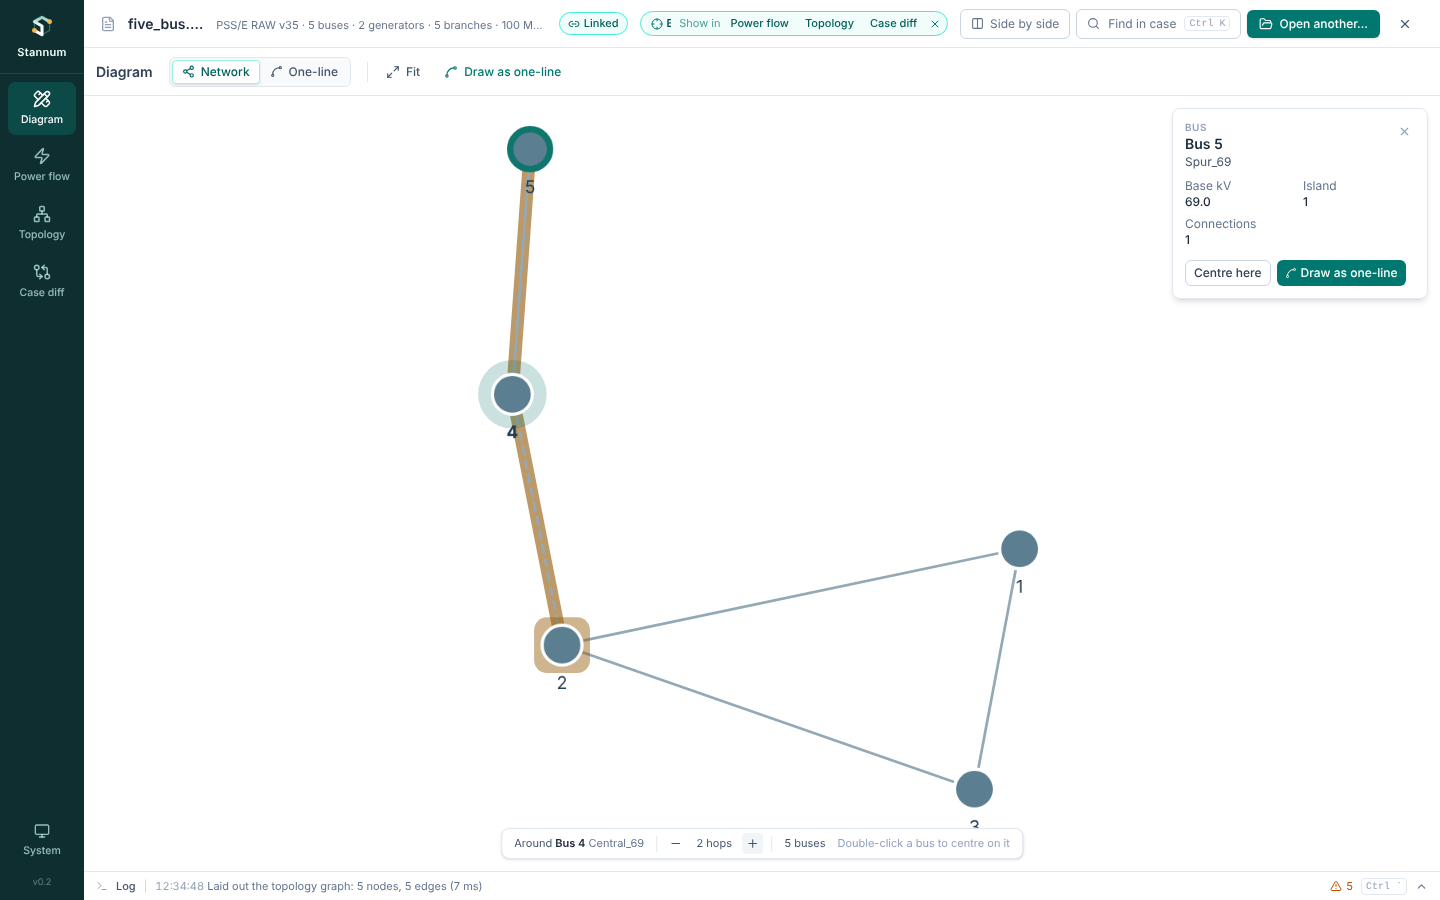
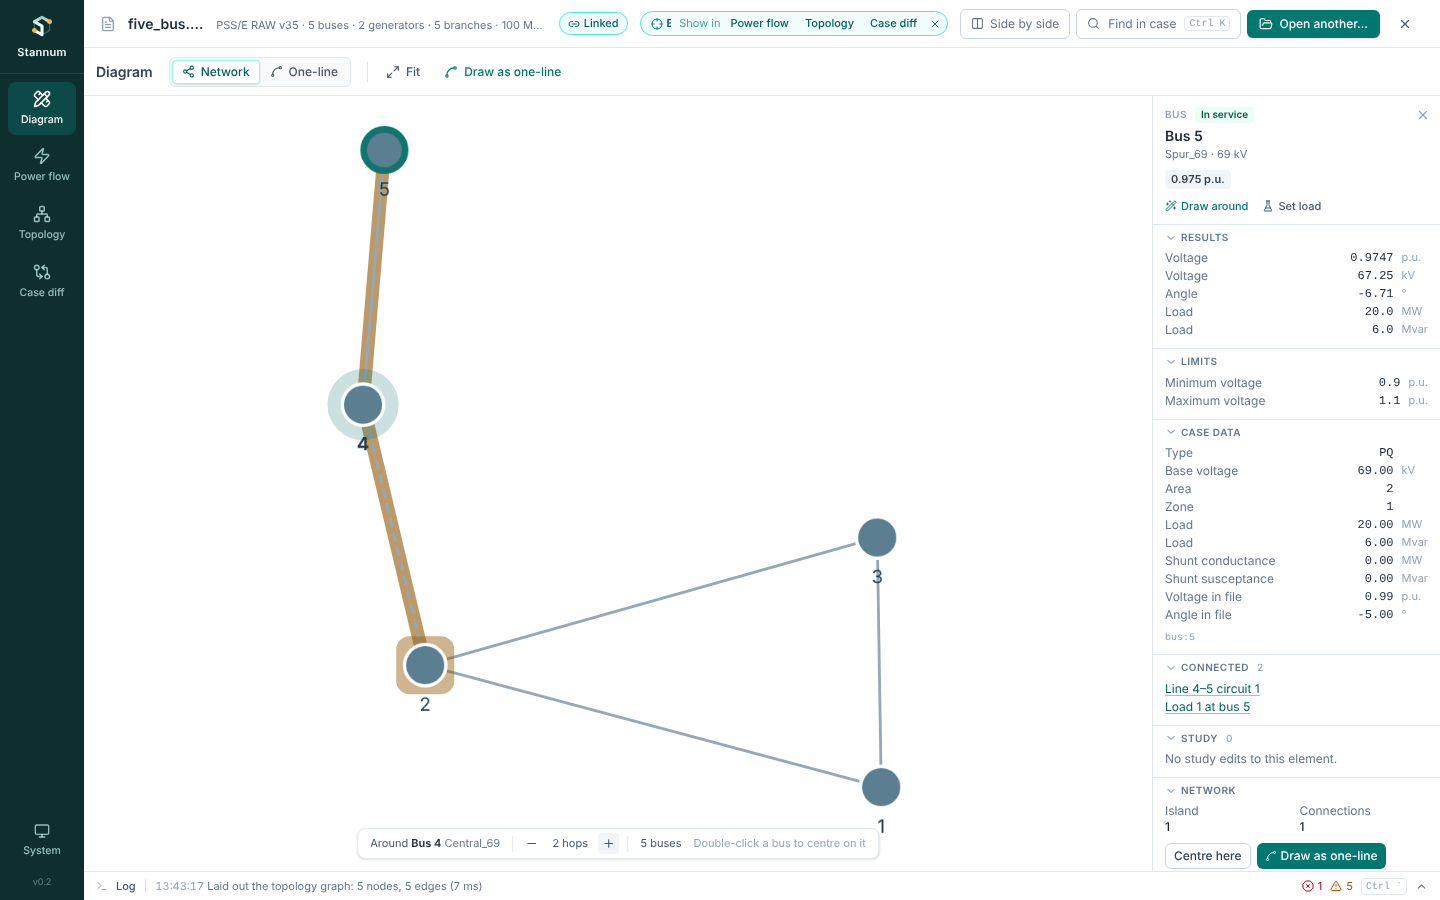
Use the shared element inspector in the Diagram's Network style
The Network style's stand-in selection card is replaced by the shared
element inspector (M6 6.1), in the same column as the one-line's. Its
Network section keeps the island, connections, bridge and cut-bus notes,
Centre here and Draw as one-line. Picking a terminal or connected element
in the inspector selects it in the network.

Claude-Session: https://claude.ai/code/session_01DEhTxTUzutLTPaBbA6n7wt

diff --git a/src/modules/diagram/network/NetworkView.tsx b/src/modules/diagram/network/NetworkView.tsx
@@ -1,16 +1,17 @@
 // The Diagram's Network style: the topology graph (Cytoscape) drawn around a
 // bus, sharing the focus bus, hop count and selection with the One-line style.
 import { useEffect, useMemo, useRef, useState } from "react";
-import { Maximize2, Minus, Plus, Spline, X } from "lucide-react";
+import { Maximize2, Minus, Plus, Spline } from "lucide-react";
 import { useWorkspace } from "../../../store/workspaceStore";
 import { useDiagramStore } from "../../../store/diagramStore";
 import { MAX_HOPS, useDrawingStyle } from "../../../store/drawingStyleStore";
 import { loadTopology, useTopology } from "../../../lib/analysis/topologyStore";
 import type { TopologySnapshot } from "../../../lib/analysis/types";
-import { busElement, elementLabel } from "../../../lib/elements";
-import { count, fixed } from "../../../lib/analysis/format";
+import { busElement } from "../../../lib/elements";
+import { count } from "../../../lib/analysis/format";
 import { centreBus } from "../../../ui/DrawAround";
 import { NetworkGraph } from "../../topology/NetworkGraph";
+import { ElementInspector, InspectorSection } from "../../../ui/ElementInspector";
 import { DISPLAY_LIMIT, locateElement, neighborhood, nodeForBus, type GraphSelection } from "../../topology/viewModel";
 import { showOneLine } from "./switchStyle";
 import { StyleSwitch } from "./StyleSwitch";
@@ -212,89 +213,69 @@ function HopBar({ snapshot, buses }: { snapshot: TopologySnapshot; buses: number
 }
 
 /**
- * What is selected in the network, floating over its top right corner: its
- * topology facts and the actions that move between styles. (The shared element inspector, M6 PR 6.1, replaces this.)
+ * The shared element inspector for what is selected in the network, with a
+ * Network section: its topology facts and the actions that move between
+ * styles. It takes the same column as the one-line's inspector.
  */
-export function NetworkSelection() {
+export function NetworkInspector() {
   const element = useDrawingStyle((s) => s.element);
   const setElement = useDrawingStyle((s) => s.setElement);
+  const caseVersion = useWorkspace((s) => s.caseVersion);
+  const snapshot = useTopology((s) => (s.version === caseVersion ? s.snapshot : null));
+  if (!element || !snapshot || !locateElement(element, snapshot)) return null;
+  const pick = (next: string) => {
+    setElement(next);
+    useWorkspace.getState().select(next, "diagram");
+  };
+  return (
+    <aside className="w-72 shrink-0 border-l border-slate-200 bg-white overflow-y-auto" data-testid="network-selection">
+      <ElementInspector element={element} from="diagram" onPick={pick} onClose={() => setElement(null)}>
+        <NetworkSection element={element} snapshot={snapshot} />
+      </ElementInspector>
+    </aside>
+  );
+}
+
+/** Islands, bridges and cut buses for the selection, and Centre here / Draw as one-line. */
+function NetworkSection({ element, snapshot }: { element: string; snapshot: TopologySnapshot }) {
   const focus = useDrawingStyle((s) => s.focus);
   const setFocus = useDrawingStyle((s) => s.setFocus);
   const busy = useDrawingStyle((s) => s.busy);
-  const caseVersion = useWorkspace((s) => s.caseVersion);
   const canDraw = useWorkspace((s) => !!s.caseSummary?.power.available);
-  const snapshot = useTopology((s) => (s.version === caseVersion ? s.snapshot : null));
-  if (!element || !snapshot) return null;
-  const found = locateElement(element, snapshot);
-  if (!found) return null;
-  const { case: c, analysis: a } = snapshot;
-  const pickBus = (bus: number) => {
-    setElement(busElement(bus));
-    useWorkspace.getState().select(busElement(bus), "diagram");
-  };
+  const found = locateElement(element, snapshot)!;
+  const { analysis: a } = snapshot;
   const bus = found.selection.bus ?? found.bus;
-  const row = "grid grid-cols-2 gap-1.5";
-  let body: React.ReactNode;
-  let eyebrow: string;
-  let title: string;
+  let facts: React.ReactNode;
   if (found.selection.equipment) {
-    const e = c.equipment.find((x) => x.id === found.selection.equipment)!;
-    const bridge = a.bridges.some((b) => b.equipment_id === e.id);
-    eyebrow = e.kind;
-    title = elementLabel(e.id);
-    body = (
-      <>
-        {e.name.trim() && <p className="text-slate-600">{e.name.trim()}</p>}
-        <p className="mt-2 text-slate-500">Terminals</p>
-        <div className="flex flex-wrap gap-1 mt-0.5">
-          {e.buses.map((b, i) => (
-            <button key={`${b}-${i}`} className="rounded border border-slate-300 px-1.5 py-px hover:bg-slate-50" onClick={() => pickBus(b)}>
-              Bus {b}
-              {e.active_terminals[i] === false && " (open)"}
-            </button>
-          ))}
-        </div>
-        {bridge && <p className="mt-2 rounded bg-amber-50 px-2 py-1 text-amber-900">Bridge: taking it out splits its island.</p>}
-      </>
+    const id = found.selection.equipment;
+    const bridge = a.bridges.some((b) => b.equipment_id === id);
+    facts = bridge ? (
+      <p className="rounded bg-amber-50 px-2 py-1 text-amber-900">Bridge: taking it out splits its island.</p>
+    ) : (
+      <p className="text-slate-500">Not a bridge: its island stays connected without it.</p>
     );
   } else {
-    const b = c.buses.find((x) => x.number === found.selection.bus);
-    const degree = a.degrees.find((d) => d.bus === found.selection.bus);
     const node = found.selection.bus !== null ? nodeForBus(snapshot.graph, found.selection.bus) : undefined;
-    eyebrow = "Bus";
-    title = node && node.member_buses.length > 1 ? `Merged node ${node.bus} · ${node.member_buses.length} buses` : `Bus ${found.selection.bus}`;
-    body = (
+    const degree = a.degrees.find((d) => d.bus === (node?.bus ?? found.selection.bus));
+    const cut = found.selection.bus !== null && a.articulation_buses.includes(node?.bus ?? found.selection.bus);
+    facts = (
       <>
-        {b?.name.trim() && <p className="text-slate-600">{b.name.trim()}</p>}
-        <dl className={`mt-2 ${row}`}>
-          <div><dt className="text-slate-500">Base kV</dt><dd className="font-medium">{b ? fixed(b.base_kv, 1) : "—"}</dd></div>
+        {node && node.member_buses.length > 1 && (
+          <p className="mb-1.5 text-slate-600">Merged node of {node.member_buses.length} buses: {node.member_buses.join(", ")}</p>
+        )}
+        <dl className="grid grid-cols-2 gap-1.5">
           <div><dt className="text-slate-500">Island</dt><dd className="font-medium">{degree?.island ?? "—"}</dd></div>
           <div><dt className="text-slate-500">Connections</dt><dd className="font-medium">{degree?.degree ?? "—"}</dd></div>
         </dl>
-        {found.selection.bus !== null && a.articulation_buses.includes(found.selection.bus) && (
-          <p className="mt-2 rounded bg-amber-50 px-2 py-1 text-amber-900">Cut bus: losing it splits its island.</p>
-        )}
+        {cut && <p className="mt-2 rounded bg-amber-50 px-2 py-1 text-amber-900">Cut bus: losing it splits its island.</p>}
       </>
     );
   }
   return (
-    // Floats over the canvas, so picking something doesn't squeeze the graph.
-    <aside
-      className="absolute right-3 top-3 z-10 w-64 max-h-[calc(100%-1.5rem)] overflow-y-auto rounded-lg border border-slate-200 bg-white/95 p-3 text-xs shadow-md"
-      data-testid="network-selection"
-    >
-      <div className="flex items-start justify-between gap-2">
-        <div className="min-w-0">
-          <p className="text-[10px] font-semibold tracking-wider text-slate-400 uppercase">{eyebrow}</p>
-          <h3 className="text-sm font-semibold text-slate-800">{title}</h3>
-        </div>
-        <button className="p-1 text-slate-400 hover:text-slate-700" onClick={() => setElement(null)} aria-label="Clear selection" title="Clear selection">
-          <X size={13} />
-        </button>
-      </div>
-      {body}
+    <InspectorSection id="network" title="Network">
+      {facts}
       {bus !== null && (
-        <div className="mt-3 flex flex-wrap gap-1.5">
+        <div className="mt-2 flex flex-wrap gap-1.5">
           {found.selection.bus !== null && focus?.bus !== bus && (
             <button className="rounded-md border border-slate-300 px-2 py-1 font-medium text-slate-700 hover:bg-slate-50" onClick={() => setFocus({ bus, depth: focus?.depth ?? 2 })}>
               Centre here
@@ -312,6 +293,6 @@ export function NetworkSelection() {
           )}
         </div>
       )}
-    </aside>
+    </InspectorSection>
   );
 }

diff --git a/src/modules/diagram/DiagramModule.tsx b/src/modules/diagram/DiagramModule.tsx
@@ -17,7 +17,7 @@ import { useSharedSelection } from "./useSharedSelection";
 import { DrawPrompt } from "./DrawPrompt";
 import { useDarkCanvas } from "../../lib/diagram/ink";
 import { useDrawingStyle } from "../../store/drawingStyleStore";
-import { NetworkCanvas, NetworkSelection, NetworkToolbar } from "./network/NetworkView";
+import { NetworkCanvas, NetworkInspector, NetworkToolbar } from "./network/NetworkView";
 
 /**
  * Keep the style's shared state in step with the rest of the app: a new case
@@ -200,7 +200,6 @@ function Inner({ active }: { active: boolean }) {
           {(networkShown || network) && (
             <div className={network ? "absolute inset-0 z-20" : "hidden"}>
               <NetworkCanvas visible={active && network} />
-              <NetworkSelection />
             </div>
           )}
           {(styleBusy || styleError) && (
@@ -234,6 +233,7 @@ function Inner({ active }: { active: boolean }) {
             </div>
           )}
         </main>
+        {network && <NetworkInspector />}
         {!network && (hasSelection || missing) && (
           <aside className="w-72 shrink-0 border-l border-slate-200 bg-white overflow-y-auto" data-testid="inspector">
             <PropertiesPanel missing={hasSelection ? null : missing} />

diff --git a/docs-site/src/content/docs/guide/diagram.md b/docs-site/src/content/docs/guide/diagram.md
@@ -29,9 +29,11 @@ replaced).
 
 In the Network style:
 
-- Click a bus or branch to select it. A card shows its island, connections,
-  and whether it is a bridge or a cut bus.
-- Double-click a bus, or **Centre here** on its card, to draw around it.
+- Click a bus or branch to inspect it in the same inspector as the one-line
+  (case data, results, limits, study edits). Its **Network** section adds its
+  island and connections, and whether it is a bridge or a cut bus.
+- Double-click a bus, or **Centre here** in its Network section, to draw
+  around it.
 - The bar at the bottom changes the hop count, up to six.
 - **Draw as one-line** switches to the one-line drawn around the selection,
   with the same hop count.
